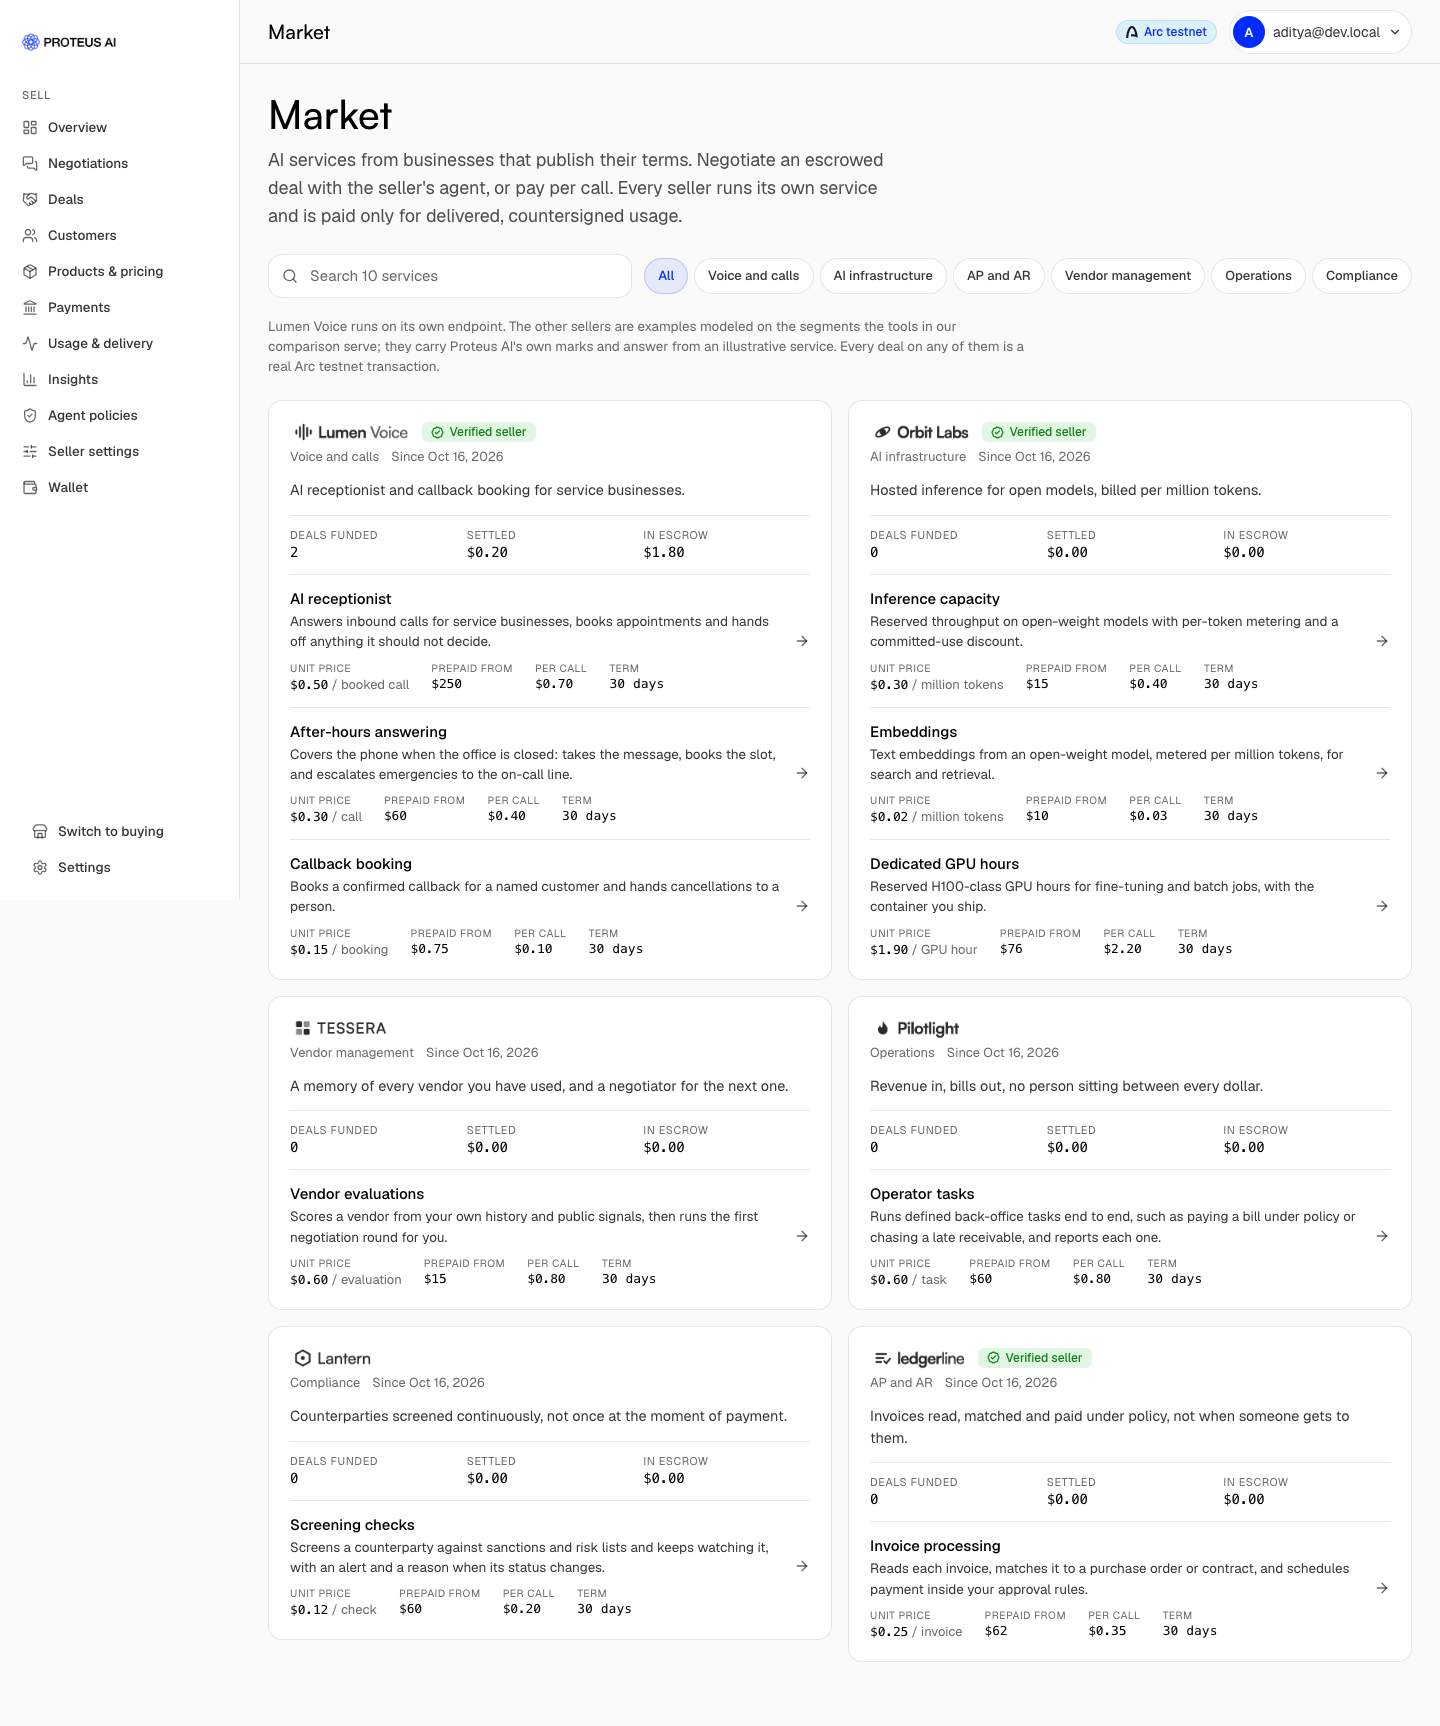
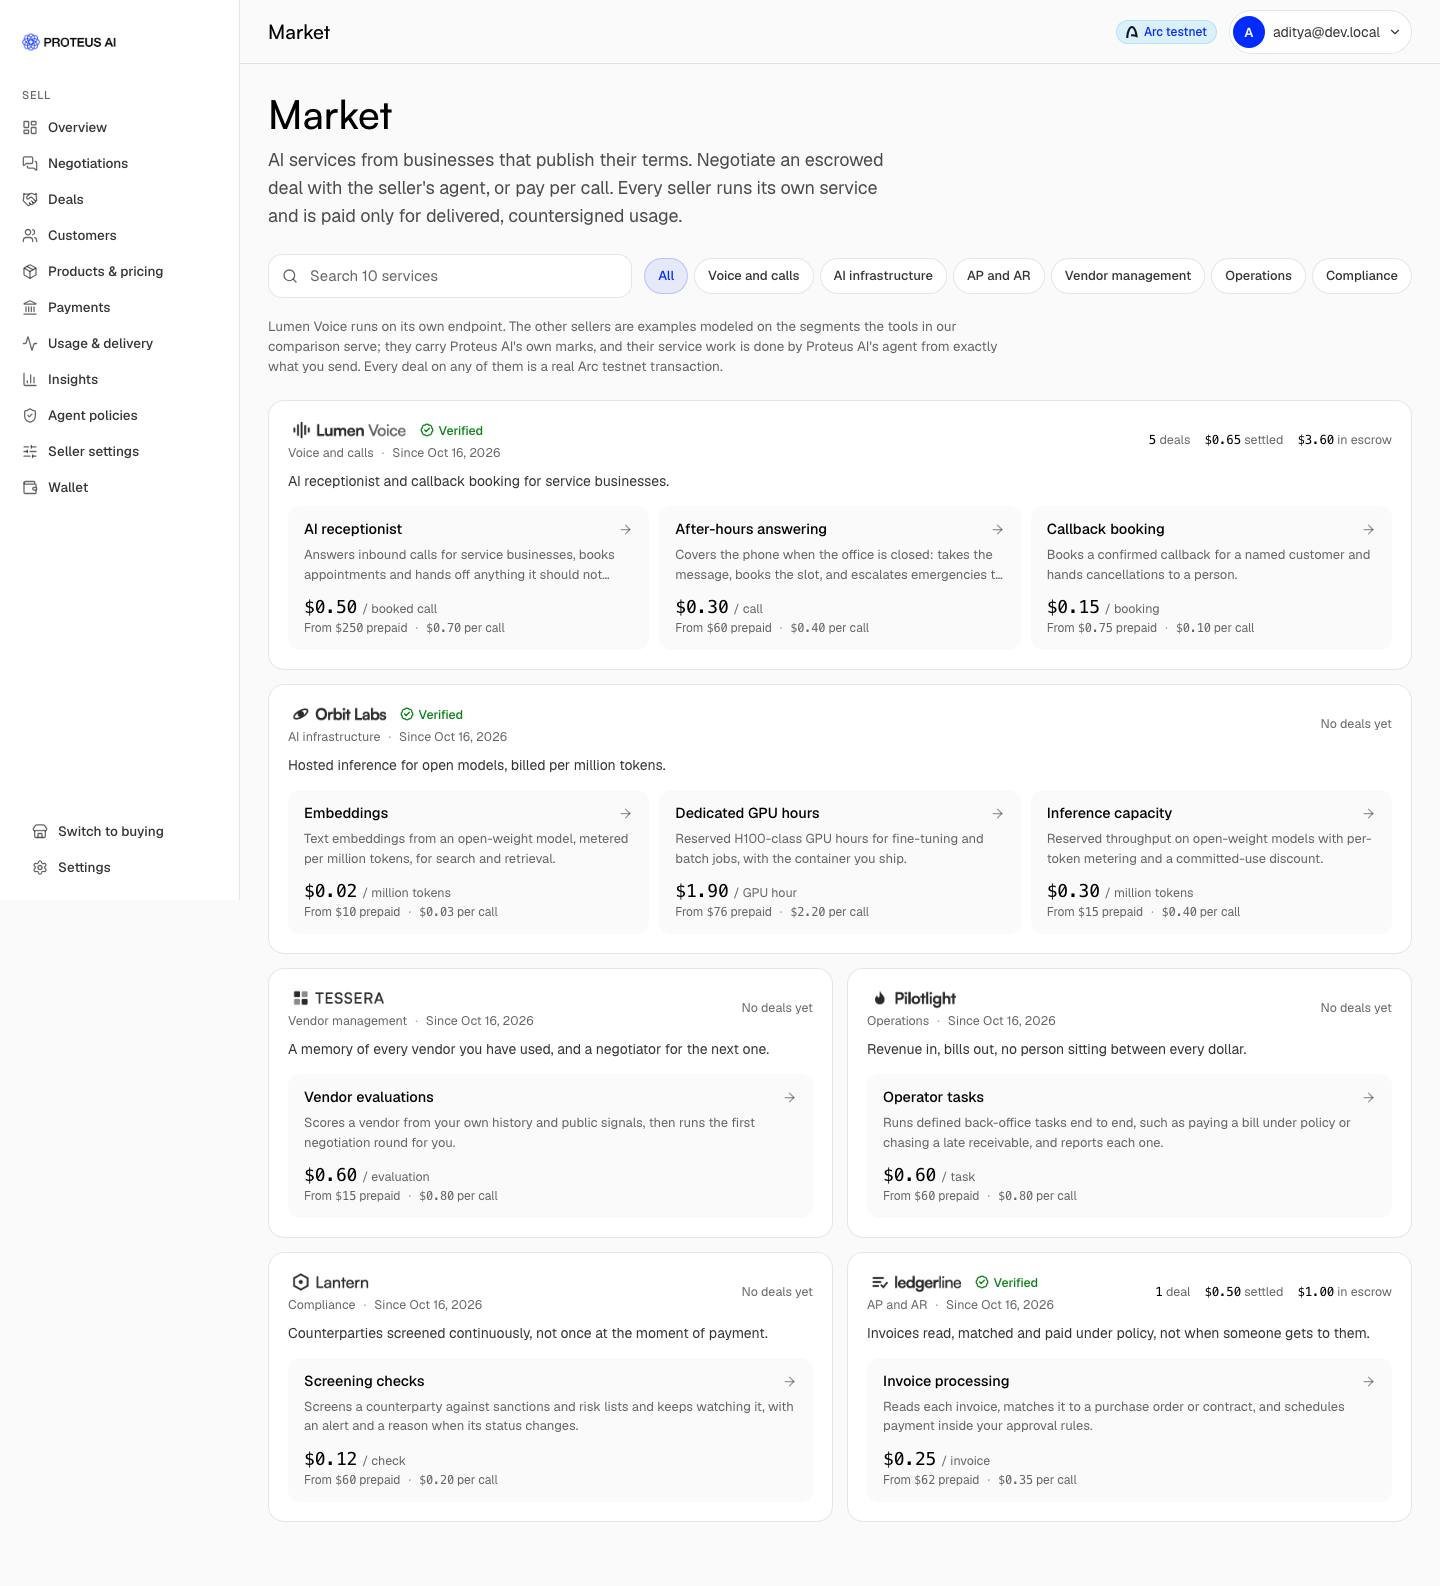
Keys written before KEY_ENCRYPTION_SECRET still decrypt; README market screenshot
decryptSecret tries KEY_ENCRYPTION_SECRET first and falls back to the
SESSION_SECRET-derived key it replaced. AES-GCM authenticates, so a wrong key
fails instead of returning garbage. Setting KEY_ENCRYPTION_SECRET on a service
that ran without it therefore cannot strand existing seller signer keys.
Checked: an old blob opens, a new blob opens, a tampered blob is refused.

README: current market screenshot; the security model row explains the
fallback.

diff --git a/server/src/lib/crypto.ts b/server/src/lib/crypto.ts
@@ -16,7 +16,17 @@ export function encryptSecret(plain: string): string {
 export function decryptSecret(blob: string): string {
   const [v, ivB, tagB, encB] = blob.split(".");
   if (v !== "v1" || !ivB || !tagB || !encB) throw new Error("bad secret blob");
-  const d = createDecipheriv("aes-256-gcm", key(), Buffer.from(ivB, "base64url"));
-  d.setAuthTag(Buffer.from(tagB, "base64url"));
-  return Buffer.concat([d.update(Buffer.from(encB, "base64url")), d.final()]).toString("utf8");
+  const open = (k: Buffer) => {
+    const d = createDecipheriv("aes-256-gcm", k, Buffer.from(ivB, "base64url"));
+    d.setAuthTag(Buffer.from(tagB, "base64url"));
+    return Buffer.concat([d.update(Buffer.from(encB, "base64url")), d.final()]).toString("utf8");
+  };
+  try {
+    return open(key());
+  } catch (e) {
+    // Secrets written before KEY_ENCRYPTION_SECRET was set were encrypted under SESSION_SECRET. GCM authenticates, so a
+    // wrong key fails here rather than returning garbage; adding KEY_ENCRYPTION_SECRET later never strands old keys.
+    if (!env.KEY_ENCRYPTION_SECRET) throw e;
+    return open(createHash("sha256").update(env.SESSION_SECRET).digest());
+  }
 }

diff --git a/README.md b/README.md
@@ -111,6 +111,8 @@ sequenceDiagram
     B->>E: refundUnused after the term (or after the seller closes early)
 ```
 
+![The market: each seller's published services, unit prices and on-chain track record](docs/images/market.jpg)
+
 What a buyer sees: a market of services with published unit prices, a chat with the seller's agent that only ever quotes offers the seller's rules allow, a review page with the exact terms and the on-chain details, a deal page with a live balance, a request form shaped to the service, receipts per request, and one button to settle or refund.
 
 What a seller sees: a console to publish a product (unit definition, public tiers, private costs, margin floor, capacity, approval threshold, the fields a buyer must send), every negotiation with the agent's reasoning and the rule ids behind each refusal, approvals waiting, deals, usage and payouts.
@@ -494,7 +496,7 @@ Hosting: one Railway service runs the API, the reconciler and serves the built s
 |---|---|---|
 | Buyer funds | the escrow contract | released by `settleAcceptedUsage` with the buyer's Acceptance signature, by `refundUnused` to the buyer, or by `resolveDispute` at the arbiter's split between buyer and payee; the owner has no transfer function (invariant-tested) but appoints the arbiter |
 | Buyer wallet | a Circle user-controlled wallet created at sign-in (2-of-2 MPC, PIN held by the person, EOA on Arc), an external wallet such as MetaMask, or, for an agent, a Circle Agent Wallet driven by the Circle CLI; the buyer picks the active one | Proteus AI never holds a key; every Circle signature is a challenge the person or agent approves; link proofs are wallet signatures over a nonce |
-| Seller signing key | generated per org, AES-256-GCM encrypted in Postgres under `KEY_ENCRYPTION_SECRET` | signs Terms, Delivery, receipt digests and x402 seller proofs; can be revoked; the payee is fixed in each funded deal, so a leak cannot redirect escrow payouts already agreed. A leaked key could countersign new terms, open disputes to freeze deals, and spend unswept pay-per-call balance on the collector |
+| Seller signing key | generated per org, AES-256-GCM encrypted in Postgres under `KEY_ENCRYPTION_SECRET` (required on mainnet; keys written earlier under the `SESSION_SECRET` fallback still decrypt, GCM authenticates every attempt) | signs Terms, Delivery, receipt digests and x402 seller proofs; can be revoked; the payee is fixed in each funded deal, so a leak cannot redirect escrow payouts already agreed. A leaked key could countersign new terms, open disputes to freeze deals, and spend unswept pay-per-call balance on the collector |
 | Seller endpoint secret | encrypted at rest, decrypted per call, never returned by the API | |
 | Deal API key | `pk_live_…` (the prefix is historical; every key is testnet), only its SHA-256 stored, shown once | rotation needs a buyer wallet signature over a 5-minute timestamp |
 | Relayer key | `RELAYER_PRIVATE_KEY` or a Circle developer-controlled wallet | calls `createAndFundDeal`, `settleAcceptedUsage`, `refundUnused`, and for gasless funding a Multicall3 batch of USDC `permit` plus `createAndFundDeal` (batch targets are restricted to USDC and the escrow); authority is in the signatures it relays |
